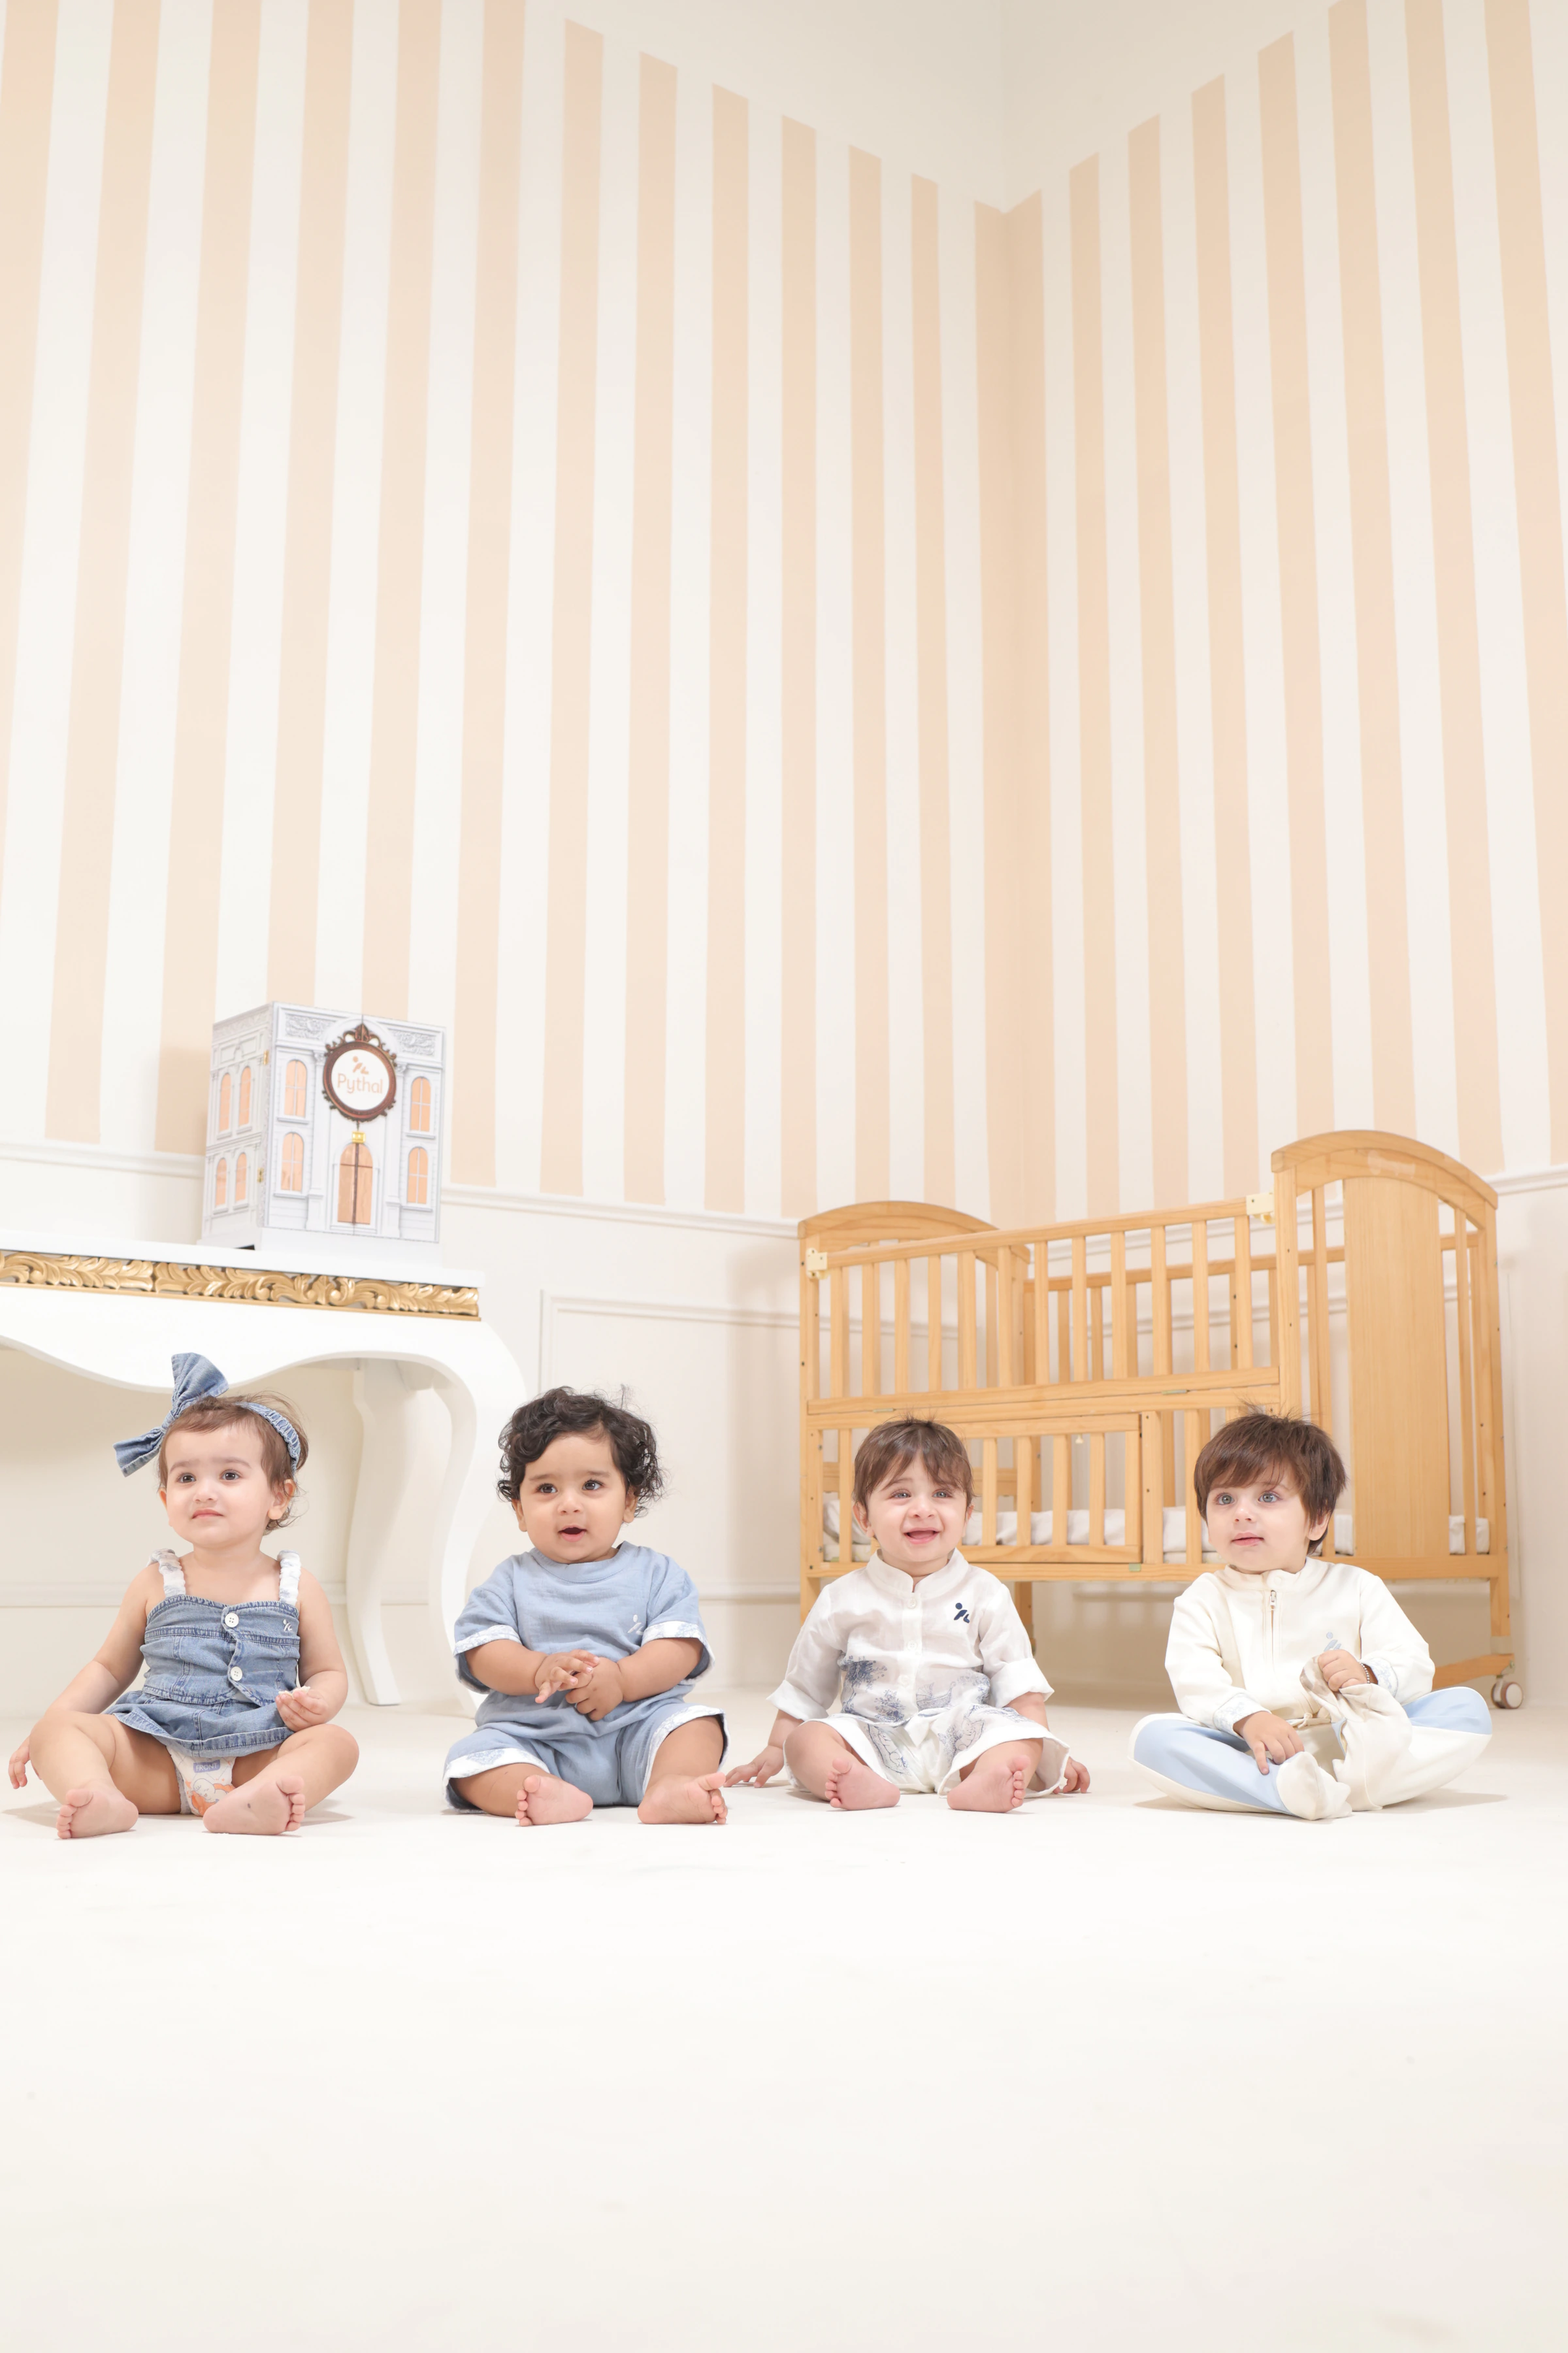
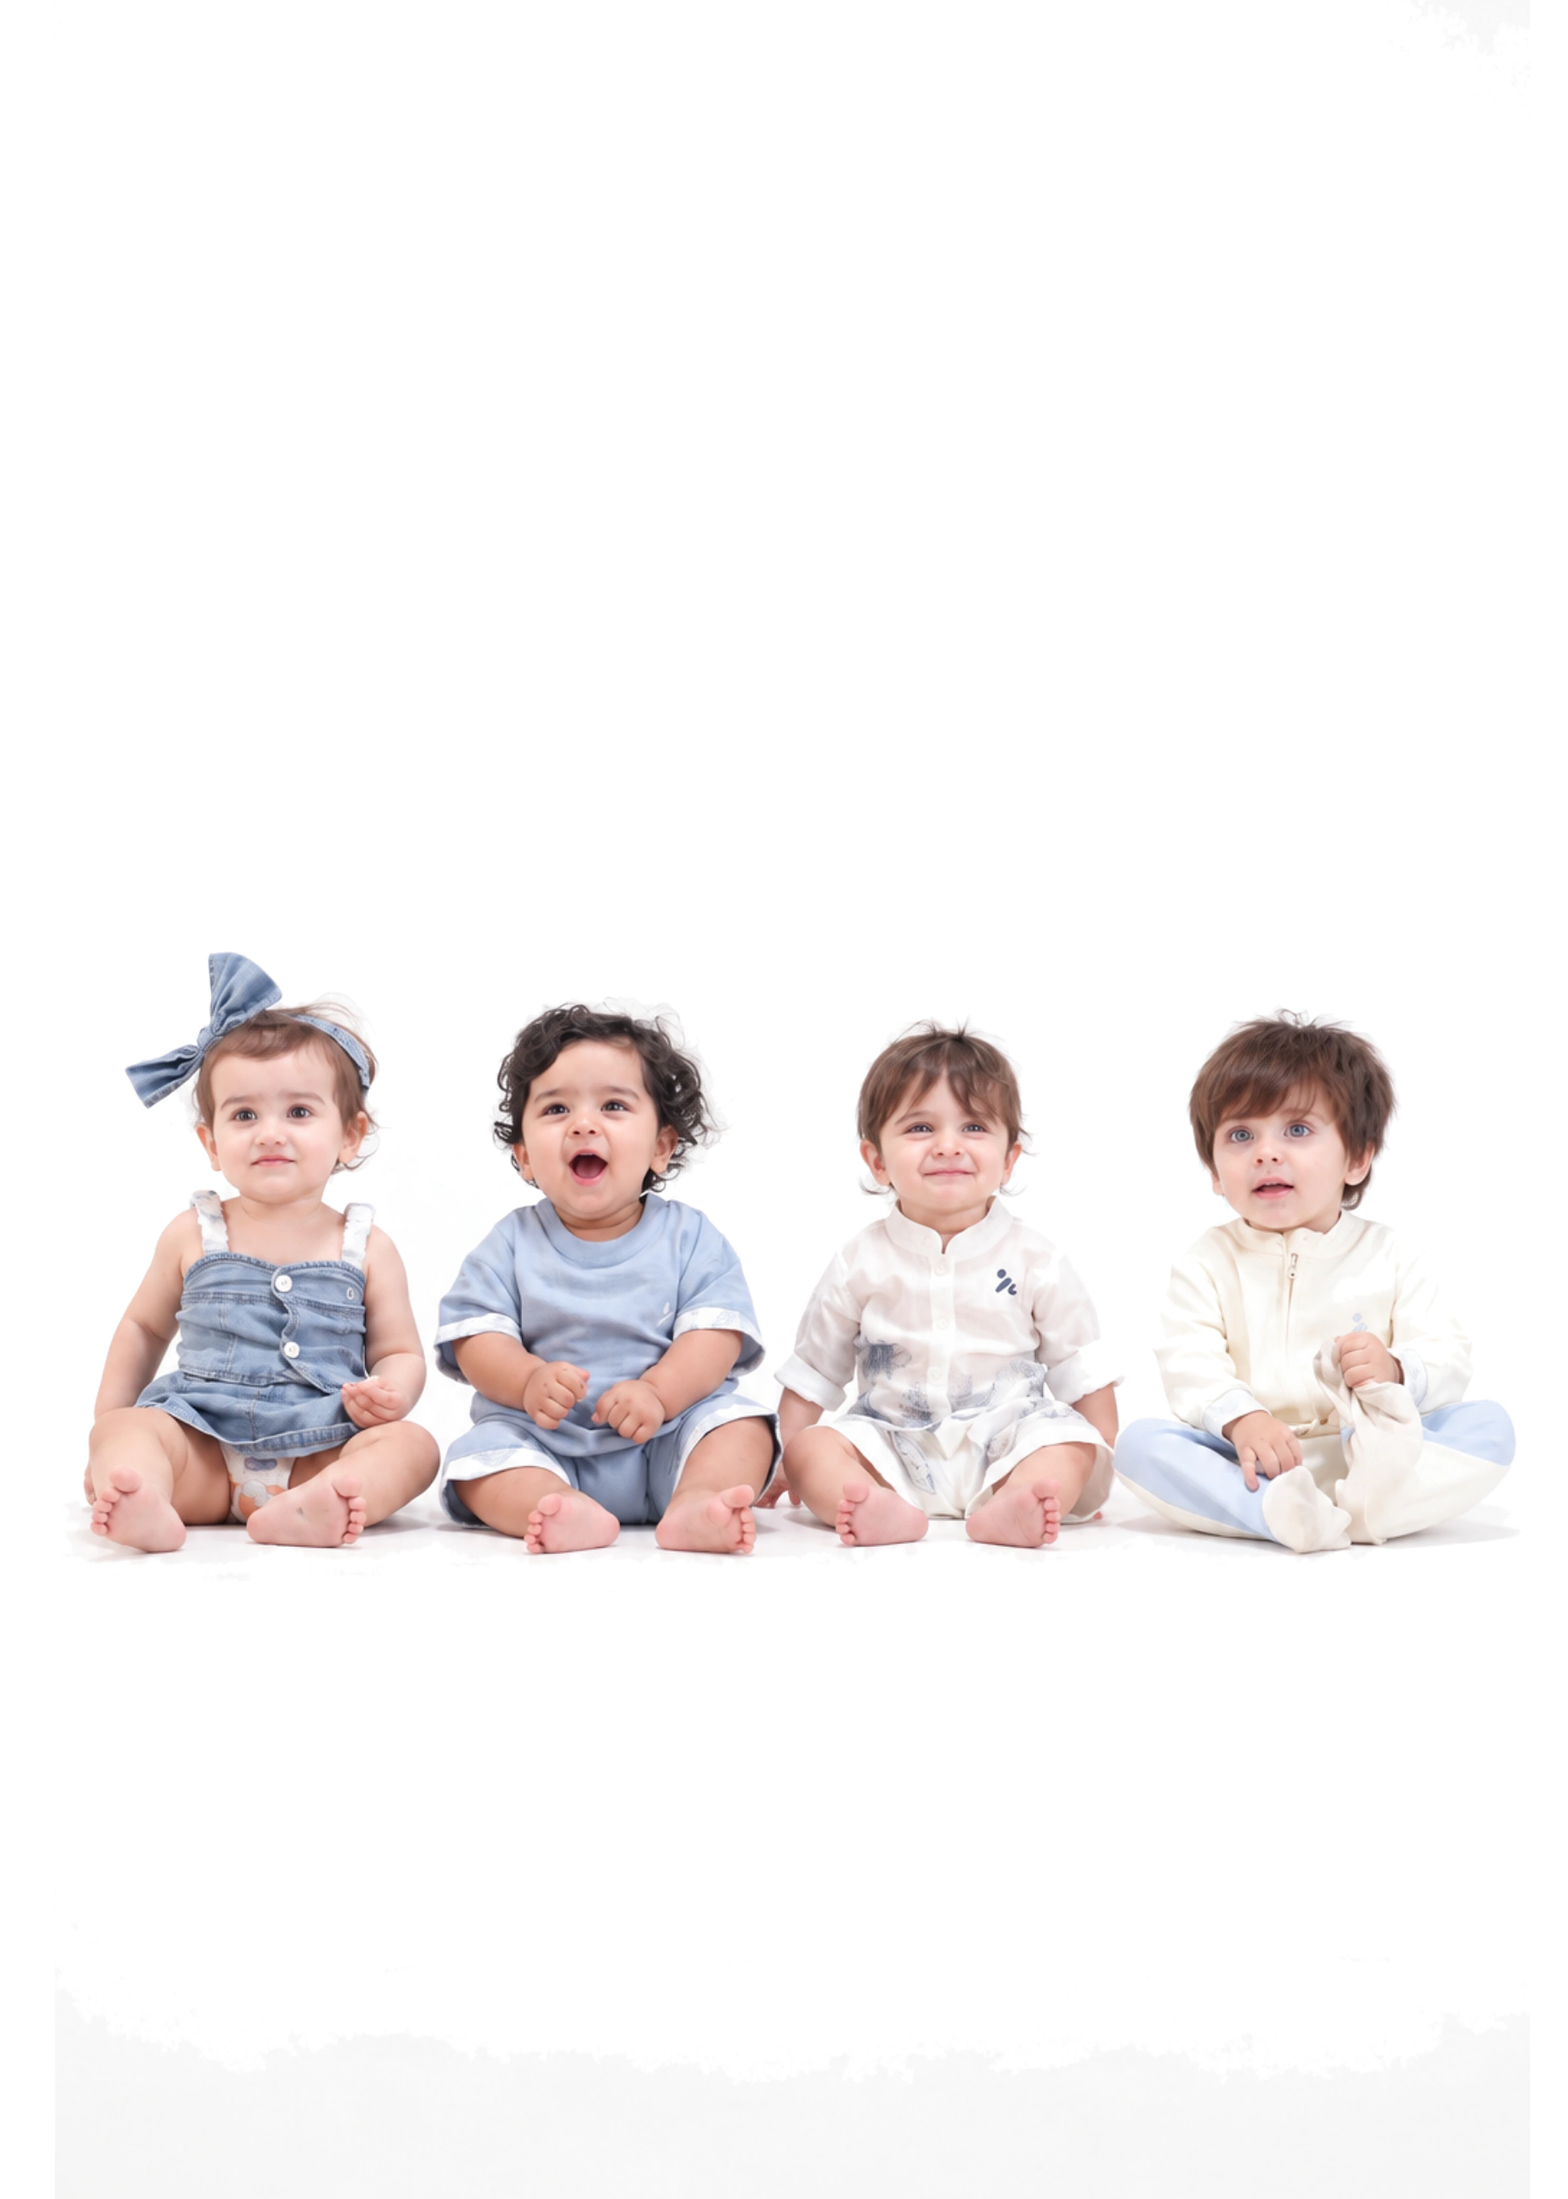
Swap in the new bundle hover photos and deepen the bundles arch
Replace the six hover photos with the new colour-wise campaign shots,
make the arch 150px deeper so they show properly, lower the copy inside
it, and shift every desktop band below it down to match.

diff --git a/src/styles/_figma.scss b/src/styles/_figma.scss
@@ -12,6 +12,8 @@ $phone-w: 402;
 // The phone frame reserves 43px at the top for the iOS status bar. A real browser
 // viewport starts below it, so phone coordinates are shifted up by this amount.
 $phone-status-bar: 43;
+// Extra depth added to the bundles arch; every desktop band below it shifts down by this much.
+$bundles-extra: 150;
 
 @function u($n) {
   @return calc(#{$n} * var(--u));
